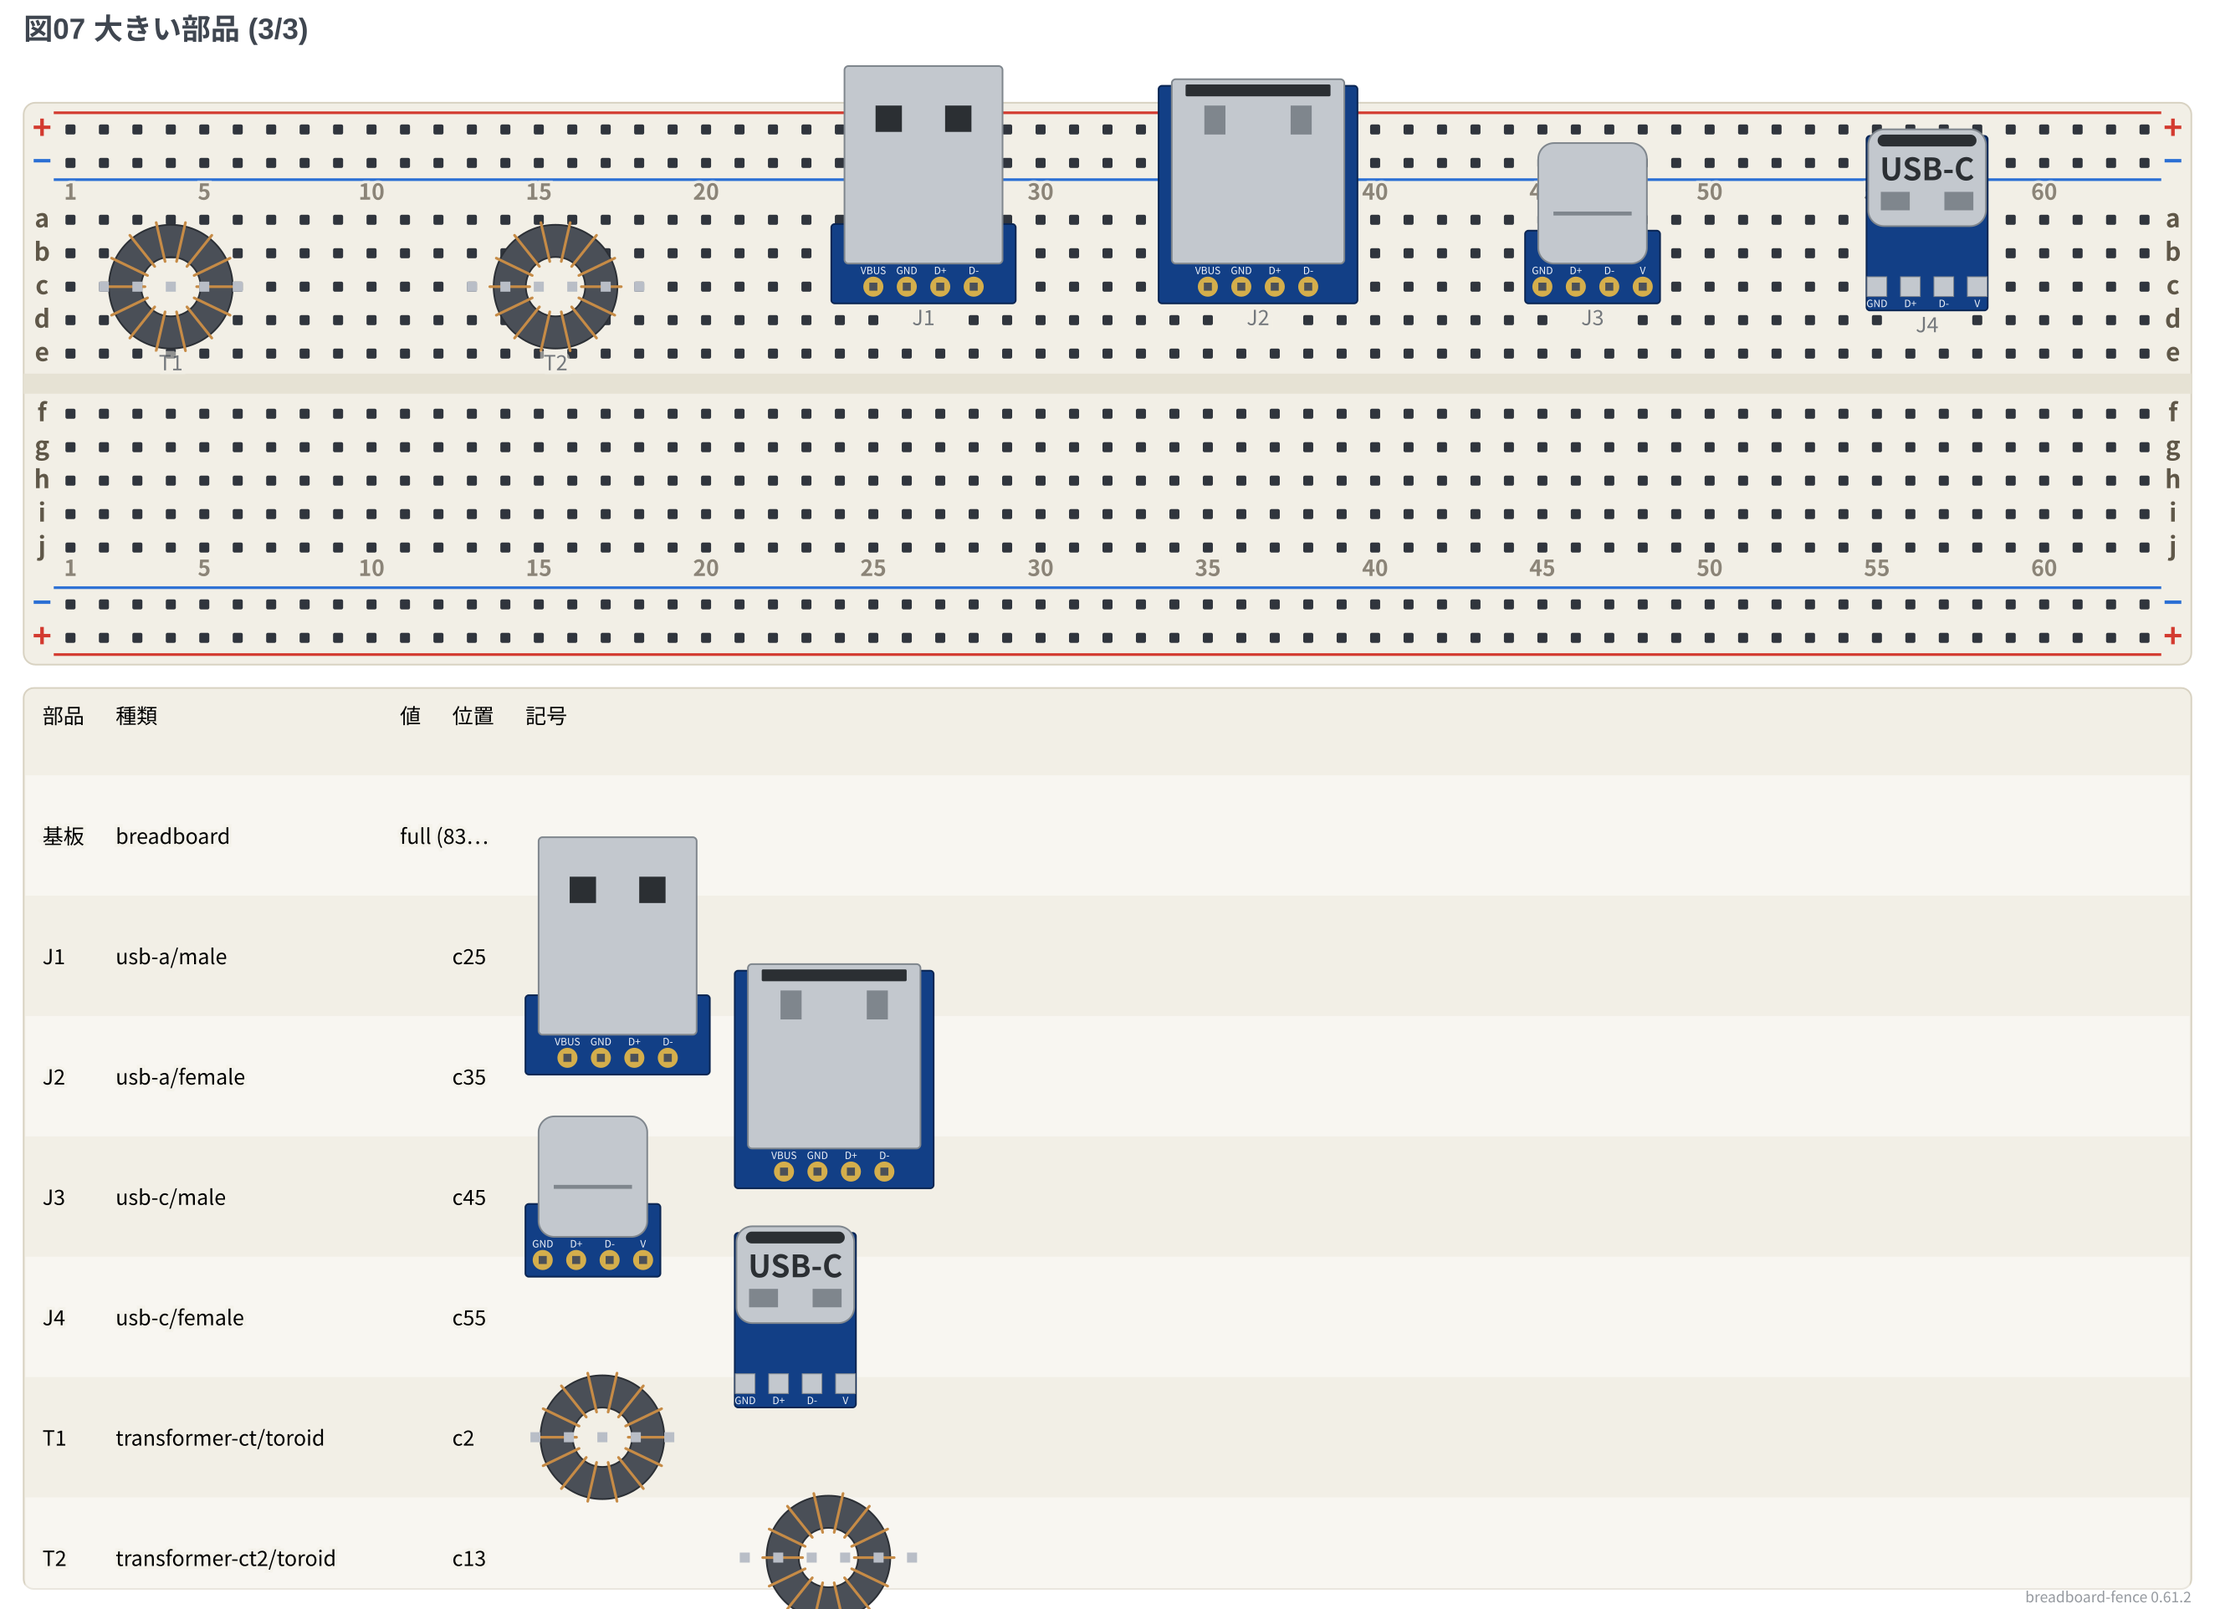
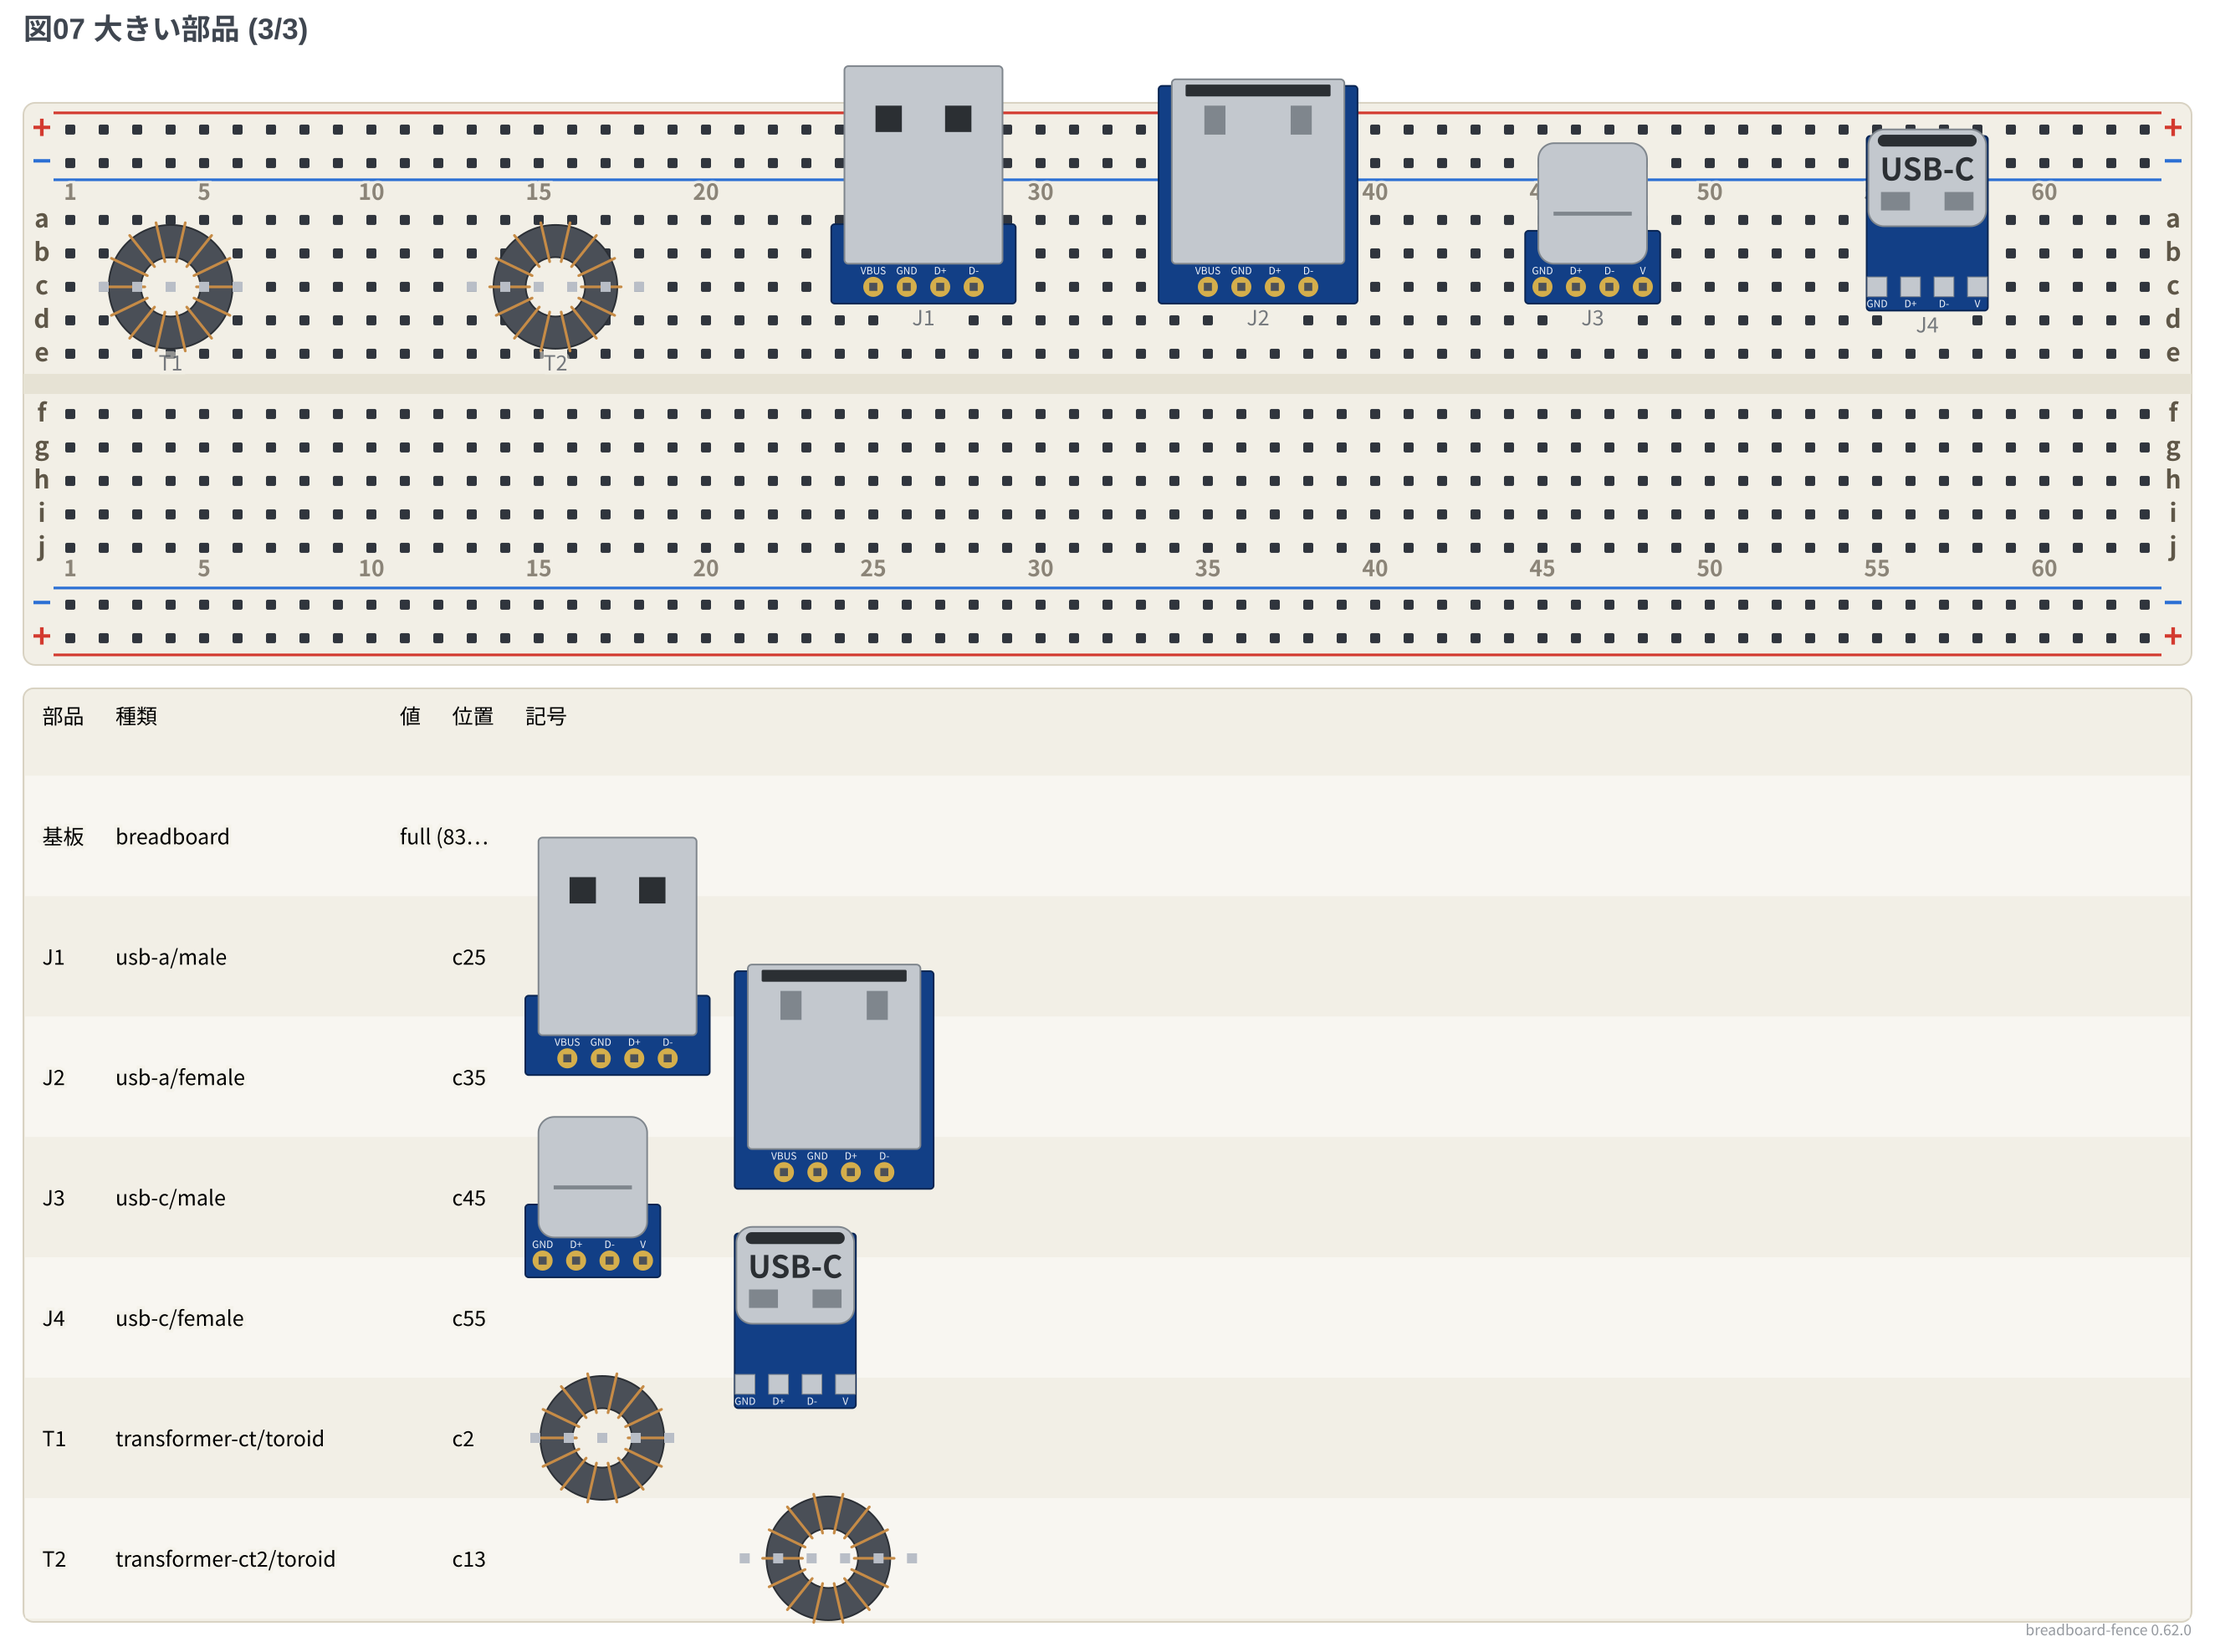
fix: 幅のある部品が入る図でも部品表の記号を出し、トロイダルのはみ出しを直す
リードと値の欄を詰めても絵が入らないときは、はみ出す絵だけを縮める。
部品表のトロイダルは輪の大きさまで含めて外形を測る。

🤖 Generated with [Claude Code](https://claude.com/claude-code)

diff --git a/packages/breadboard-fence/src/core/render/partsList.ts b/packages/breadboard-fence/src/core/render/partsList.ts
@@ -3,7 +3,7 @@ import type { Lang, PartsMark } from 'fence-kit';
 import type { Layout } from '../model/layout.ts';
 import { formatAddress } from '../model/address.ts';
 import { partsLabels } from './labels.ts';
-import { partsIcon, partsIconsWithin } from './partsListIcons.ts';
+import { partsIcon, partsIconsWithin, scaledToColumn } from './partsListIcons.ts';
 import type { PartsIcon } from './partsListIcons.ts';
 import { LIMITS } from '../limits.ts';
 import { fit, textWidth } from './textFit.ts';
@@ -308,16 +308,29 @@ export function renderPartsList(
   const iconsAt = (value: number, withPosition: boolean): readonly (PartsIcon | null)[] =>
     partsIconsWithin(shown, layout as Layout, theme, (candidates) => iconsFitIn(candidates, markRoomFor(value, withPosition)));
   // リードを詰めても入らない図だけ、値の欄の長い説明を 1 字ぶんずつ切っていく。
-  const fittingValue = (withPosition: boolean): number | undefined =>
-    valueCandidates(fullValueWidth).find((value) => iconsFitIn(iconsAt(value, withPosition), markRoomFor(value, withPosition)));
-  // 絵と位置の両方は入らない狭い基板では、基板を見れば分かる位置のほうを諦める。
-  const showPosition = symbols && fittingValue(true) !== undefined;
-  const valueWidth = symbols ? fittingValue(showPosition) ?? fullValueWidth : fullValueWidth;
+  // それでも入らなければ位置の欄を諦め、次にはみ出す絵だけを縮める。縮めても入らない図は値を切らず、絵の欄を空ける。
+  type IconPlan = { readonly value: number; readonly showPosition: boolean; readonly icons: readonly (PartsIcon | null)[] };
+  const iconPlan = (): IconPlan => {
+    if (!symbols) return { value: fullValueWidth, showPosition: false, icons: [] };
+    const candidates = valueCandidates(fullValueWidth);
+    const plainAt = (withPosition: boolean): number | undefined =>
+      candidates.find((value) => iconsFitIn(iconsAt(value, withPosition), markRoomFor(value, withPosition)));
+    const withPosition = plainAt(true);
+    if (withPosition !== undefined) return { value: withPosition, showPosition: true, icons: iconsAt(withPosition, true) };
+    const without = plainAt(false);
+    if (without !== undefined) return { value: without, showPosition: false, icons: iconsAt(without, false) };
+    const narrowest = candidates[candidates.length - 1] ?? fullValueWidth;
+    const column = ((markRoomFor(narrowest, false) - ICON_COLUMN_GAP) * textSize) / 2;
+    const scaled = scaledToColumn(iconsAt(narrowest, false), column);
+    return iconsFitIn(scaled, markRoomFor(narrowest, false))
+      ? { value: narrowest, showPosition: false, icons: scaled }
+      : { value: fullValueWidth, showPosition: false, icons: iconsAt(fullValueWidth, false) };
+  };
+  const { value: valueWidth, showPosition, icons: fitted } = iconPlan();
 
   const positionX = valueX + (valueWidth + COLUMN_GAP) * textSize;
   const markX = showPosition ? positionX + (positionWidth + COLUMN_GAP) * textSize : positionX;
   const markRoom = room(markX);
-  const fitted = symbols ? iconsAt(valueWidth, showPosition) : [];
   const rows: readonly Row[] = textRows.map((row, index) =>
     symbols && index >= listedFrom ? { ...row, icon: fitted[index - listedFrom] ?? null } : row);
 

diff --git a/packages/breadboard-fence/src/core/render/partsListIcons.ts b/packages/breadboard-fence/src/core/render/partsListIcons.ts
@@ -1,3 +1,4 @@
+import { transformerExtent } from 'fence-kit';
 import type { SceneRect } from 'fence-kit';
 import type { Layout } from '../model/layout.ts';
 import type { HoleAddress, PlacedPart, Point, Rect } from '../types.ts';
@@ -95,6 +96,11 @@ const axisRect = (rect: SceneRect): Rect => {
 function bodyRectOf(part: PlacedPart, layout: Layout): Rect | null {
   const body = bodyOf(part, layout);
   if (body === null) return null;
+  if (part.kind === 'wound' && part.variant === 'toroid') {
+    // トロイダルの輪はピンを囲む箱より大きく描く。箱で測ると輪が表の下の縁からはみ出す。
+    const drawn = transformerExtent(body.width, body.height, { variant: part.variant, model: part.value, pitch: layout.pitch });
+    return axisRect({ ...body, width: drawn.width, height: drawn.height });
+  }
   if (part.type !== 'crystal' || part.variant !== 'cylinder') return axisRect(body);
   const half = body.height / 2;
   return axisRect({ ...body, cx: body.cx + Math.sin(body.angle) * half, cy: body.cy - Math.cos(body.angle) * half });
@@ -212,5 +218,20 @@ export function partsIconsWithin(
   const natural = drawn();
   if (fits(natural)) return natural;
   const spans = Array.from({ length: Math.max(0, layout.columns - MIN_ICON_SPAN + 1) }, (_, index) => layout.columns - index);
-  return spans.map((span) => drawn(span)).find(fits) ?? natural;
+  return spans.map((span) => drawn(span)).find(fits) ?? drawn(MIN_ICON_SPAN);
+}
+
+/** 絵を縮める下限。これより小さいと刷り込みとピンの名前が読めない。 */
+const MIN_ICON_SCALE = 0.5;
+
+/**
+ * 列の幅 `width` からはみ出す絵だけを縮める。リードを詰められないトランスのように幅のある絵の最後の手段で、
+ * 基板と同じ大きさで描く決めの例外。ほかの絵の大きさは変えない。
+ */
+export function scaledToColumn(icons: readonly (PartsIcon | null)[], width: number): readonly (PartsIcon | null)[] {
+  return icons.map((icon) => {
+    if (icon === null || icon.width <= width) return icon;
+    const scale = Math.max(MIN_ICON_SCALE, width / icon.width);
+    return { svg: `<g transform="scale(${num(scale)})">${icon.svg}</g>`, width: icon.width * scale, height: icon.height * scale };
+  });
 }

diff --git a/packages/breadboard-fence/src/core/render/partsListSymbols.test.ts b/packages/breadboard-fence/src/core/render/partsListSymbols.test.ts
@@ -1,5 +1,6 @@
 import { describe, expect, test } from 'vitest';
 import { renderBreadboard } from '../index.ts';
+import { scaledToColumn } from './partsListIcons.ts';
 
 /**
  * 部品表の最後の欄を図の中の部品の絵にする (`parts-list: symbols`、52 の依頼)。
@@ -50,6 +51,16 @@ describe('parts-list: symbols', () => {
     ));
     expect(errors).toEqual([]);
     expect(listOf(svg).match(/class="bf-parts-icon"/g)).toHaveLength(3);
+  });
+
+  test('scaledToColumn shrinks only the drawings wider than the column', () => {
+    const wide = { svg: '<g/>', width: 200, height: 40 };
+    const small = { svg: '<g/>', width: 80, height: 20 };
+    const [shrunk, kept, none] = scaledToColumn([wide, small, null], 100);
+    expect(shrunk).toMatchObject({ width: 100, height: 20 });
+    expect(shrunk?.svg).toContain('scale(0.5)');
+    expect(kept).toBe(small);
+    expect(none).toBeNull();
   });
 
   test('a film capacitor between a row and the rail still carries its code', () => {

diff --git a/packages/breadboard-fence/CHANGELOG.md b/packages/breadboard-fence/CHANGELOG.md
@@ -5,6 +5,11 @@
 
 ## [Unreleased]
 
+### Fixed
+
+- **トランスのように幅のある部品が入る図で、部品表の記号の欄が空のままだった。** リードと値の欄を詰めても入らないときは、はみ出す絵だけを縮める
+- **部品表のトロイダルの絵が表の下の縁からはみ出した。** 輪の大きさまで含めて行の送りを決める
+
 ## [0.62.0] - 2026-11-08
 
 ### Added
